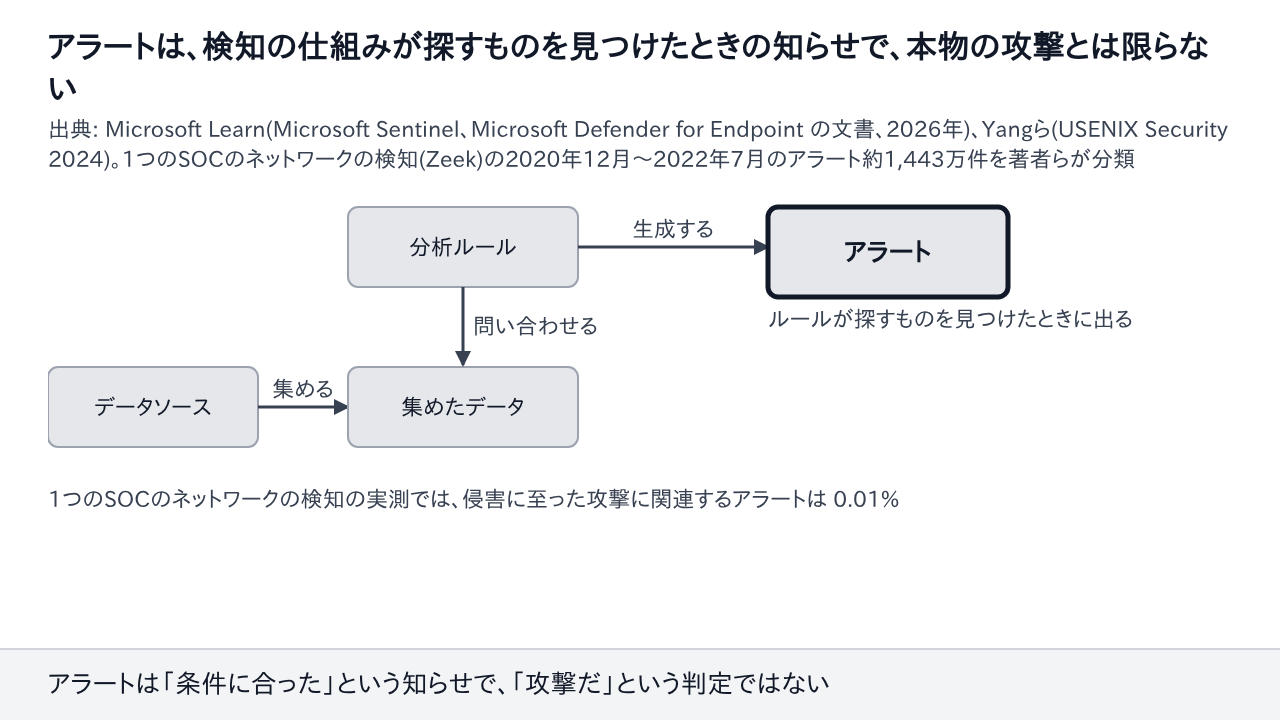
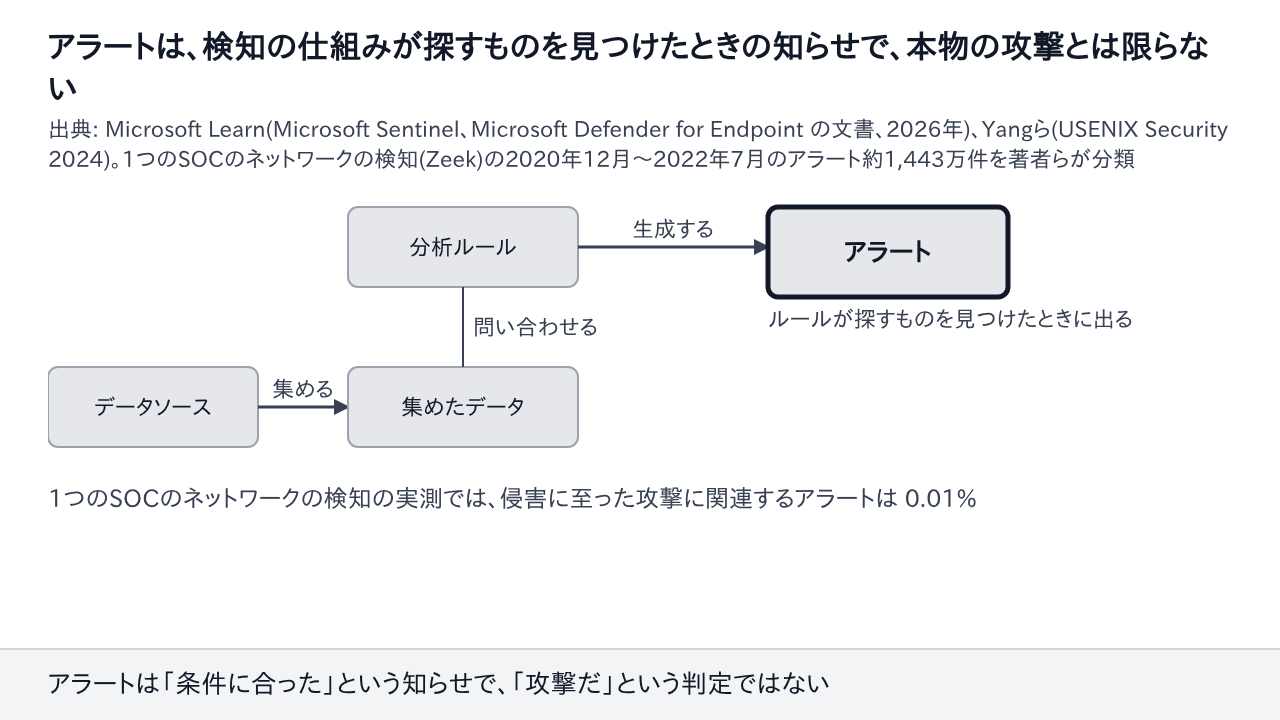
工程6: 見本の再検査の指摘を直す(往復の上限)
Claude-Session: https://claude.ai/code/session_01LpWHd1RPWwvWvFmneHJVAr

Changed region(s): [[0.0312, 0.6722, 0.7812, 0.7028], [0.375, 0.4278, 0.4688, 0.4889], [0.3438, 0.4889, 0.375, 0.5194]]

diff --git a/trial/deck/06-samples/src/architecture-diagram.html b/trial/deck/06-samples/src/architecture-diagram.html
@@ -8,5 +8,5 @@ body{width:1280px;height:720px;background:#fff;font-family:'IPAPGothic','IPAGoth
 .tk{position:absolute;left:0;bottom:0;width:1280px;height:72px;background:#F3F4F6;font-size:26px;padding:20px 48px;border-top:2px solid #D1D5DB}
 .tag{display:inline-block;font-size:19px;padding:2px 10px;border-radius:12px;color:#fff;margin-right:8px;vertical-align:middle}
 </style></head><body>
-<div class="top"><div class="h">EDRは端末の振る舞いの記録を継続して集め、製品の例では脅威を検知するとアラートを作る</div><div class="src">出典: 米国 OMB の覚書 M-22-01(2021年)、サウジアラビア国家サイバーセキュリティ庁(NCA)のEDR標準のひな形、Microsoft Learn(Microsoft Defender for Endpoint の文書、2026年)</div><div class="fig"><svg width="1184" height="400" xmlns="http://www.w3.org/2000/svg"><defs><marker id="a" markerUnits="userSpaceOnUse" markerWidth="16" markerHeight="16" refX="14" refY="8" orient="auto"><path d="M0,0 L16,8 L0,16 z" fill="#374151"/></marker></defs><text x="0" y="26" font-size="24" text-anchor="start" fill="#111827" font-weight="bold">EDRの要件の例(NCA)</text><rect x="14" y="54" width="140" height="68" rx="10" fill="#E5E7EB" stroke="#9CA3AF" stroke-width="2"/><text x="84.0" y="95.7" font-size="22" text-anchor="middle" fill="#111827">端末</text><line x1="154" y1="88" x2="194" y2="88" stroke="#374151" stroke-width="3" marker-end="url(#a)"/><rect x="194" y="54" width="170" height="68" rx="10" fill="#E5E7EB" stroke="#9CA3AF" stroke-width="2"/><text x="279.0" y="95.7" font-size="22" text-anchor="middle" fill="#111827">エージェント</text><line x1="364" y1="88" x2="404" y2="88" stroke="#374151" stroke-width="3" marker-end="url(#a)"/><rect x="404" y="54" width="170" height="68" rx="10" fill="#E5E7EB" stroke="#9CA3AF" stroke-width="2"/><text x="489.0" y="82.06" font-size="22" text-anchor="middle" fill="#111827">中央の</text><text x="489.0" y="109.56" font-size="22" text-anchor="middle" fill="#111827">データベース</text><rect x="0" y="42" width="590" height="92" rx="14" fill="none" stroke="#111827" stroke-width="5"/><text x="0" y="170" font-size="22" text-anchor="start" fill="#374151">プロセス、接続、ファイルなどの端末の記録を集める</text><text x="640" y="26" font-size="24" text-anchor="start" fill="#111827" font-weight="bold">製品の例(Microsoft Defender for Endpoint)</text><rect x="640" y="50" width="300" height="130" rx="10" fill="#E5E7EB" stroke="#9CA3AF" stroke-width="2"/><text x="790.0" y="122.7" font-size="22" text-anchor="middle" fill="#111827"></text><text x="790" y="84" font-size="22" text-anchor="middle" fill="#111827">Defender for Endpoint</text><rect x="700" y="104" width="180" height="56" rx="10" fill="#fff" stroke="#9CA3AF" stroke-width="2"/><text x="790.0" y="139.7" font-size="22" text-anchor="middle" fill="#111827">センサー</text><line x1="790" y1="180" x2="790" y2="240" stroke="#374151" stroke-width="3" marker-end="url(#a)"/><text x="800" y="218.0" font-size="22" text-anchor="start" fill="#374151">作る</text><rect x="700" y="242" width="180" height="56" rx="10" fill="#E5E7EB" stroke="#9CA3AF" stroke-width="2"/><text x="790.0" y="277.7" font-size="22" text-anchor="middle" fill="#111827">アラート</text><rect x="640" y="320" width="540" height="64" rx="8" fill="#F9FAFB" stroke="#9CA3AF" stroke-dasharray="4 4"/><text x="654" y="346" font-size="19" text-anchor="start" fill="#111827">製品が集める記録: プロセス、ネットワーク、ログオン、レジストリ</text><text x="654" y="372" font-size="19" text-anchor="start" fill="#111827">とファイルの変更(製品やアラートとの経路は出典にない)</text></svg></div></div>
+<div class="top"><div class="h">EDRは端末の振る舞いの記録を継続して集め、製品の例では脅威を検知するとアラートを作る</div><div class="src">出典: 米国 OMB の覚書 M-22-01(2021年)、サウジアラビア国家サイバーセキュリティ庁(NCA)のEDR標準のひな形、Microsoft Learn(Microsoft Defender for Endpoint の文書、2026年)</div><div class="fig"><svg width="1184" height="400" xmlns="http://www.w3.org/2000/svg"><defs><marker id="a" markerUnits="userSpaceOnUse" markerWidth="16" markerHeight="16" refX="14" refY="8" orient="auto"><path d="M0,0 L16,8 L0,16 z" fill="#374151"/></marker></defs><text x="0" y="26" font-size="24" text-anchor="start" fill="#111827" font-weight="bold">EDRの要件の例(NCA)</text><rect x="14" y="54" width="140" height="68" rx="10" fill="#E5E7EB" stroke="#9CA3AF" stroke-width="2"/><text x="84.0" y="95.7" font-size="22" text-anchor="middle" fill="#111827">端末</text><line x1="154" y1="88" x2="194" y2="88" stroke="#374151" stroke-width="3" marker-end="url(#a)"/><rect x="194" y="54" width="170" height="68" rx="10" fill="#E5E7EB" stroke="#9CA3AF" stroke-width="2"/><text x="279.0" y="95.7" font-size="22" text-anchor="middle" fill="#111827">エージェント</text><line x1="364" y1="88" x2="404" y2="88" stroke="#374151" stroke-width="3" marker-end="url(#a)"/><rect x="404" y="54" width="170" height="68" rx="10" fill="#E5E7EB" stroke="#9CA3AF" stroke-width="2"/><text x="489.0" y="82.06" font-size="22" text-anchor="middle" fill="#111827">中央の</text><text x="489.0" y="109.56" font-size="22" text-anchor="middle" fill="#111827">データベース</text><rect x="0" y="42" width="590" height="92" rx="14" fill="none" stroke="#111827" stroke-width="5"/><text x="0" y="172" font-size="24" text-anchor="start" fill="#374151">プロセス、接続、ファイルなどの端末の記録を集める</text><text x="640" y="26" font-size="24" text-anchor="start" fill="#111827" font-weight="bold">製品の例(Microsoft Defender for Endpoint)</text><rect x="640" y="50" width="300" height="130" rx="10" fill="#E5E7EB" stroke="#9CA3AF" stroke-width="2"/><text x="790.0" y="122.7" font-size="22" text-anchor="middle" fill="#111827"></text><text x="790" y="84" font-size="22" text-anchor="middle" fill="#111827">Defender for Endpoint</text><rect x="700" y="104" width="180" height="56" rx="10" fill="#fff" stroke="#9CA3AF" stroke-width="2"/><text x="790.0" y="139.7" font-size="22" text-anchor="middle" fill="#111827">センサー</text><line x1="790" y1="180" x2="790" y2="240" stroke="#374151" stroke-width="3" marker-end="url(#a)"/><text x="800" y="218.0" font-size="22" text-anchor="start" fill="#374151">作る</text><rect x="700" y="242" width="180" height="56" rx="10" fill="#E5E7EB" stroke="#9CA3AF" stroke-width="2"/><text x="790.0" y="277.7" font-size="22" text-anchor="middle" fill="#111827">アラート</text><rect x="980" y="50" width="204" height="250" rx="8" fill="#F9FAFB" stroke="#9CA3AF" stroke-dasharray="4 4"/><text x="992" y="78" font-size="19" text-anchor="start" fill="#111827" font-weight="bold">製品が集める記録</text><text x="1000" y="110" font-size="19" text-anchor="start" fill="#111827">プロセス</text><text x="1000" y="138" font-size="19" text-anchor="start" fill="#111827">ネットワーク</text><text x="1000" y="166" font-size="19" text-anchor="start" fill="#111827">ログオン</text><text x="1000" y="194" font-size="19" text-anchor="start" fill="#111827">レジストリと</text><text x="1000" y="222" font-size="19" text-anchor="start" fill="#111827">ファイルの変更</text><text x="992" y="262" font-size="19" text-anchor="start" fill="#4B5563">製品やアラートとの</text><text x="992" y="286" font-size="19" text-anchor="start" fill="#4B5563">経路は出典にない</text></svg></div></div>
 <div class="tk">EDRの材料は、端末の振る舞いを集め続けた記録である</div></body></html>

diff --git a/trial/deck/06-samples/src/er-diagram.html b/trial/deck/06-samples/src/er-diagram.html
@@ -8,5 +8,5 @@ body{width:1280px;height:720px;background:#fff;font-family:'IPAPGothic','IPAGoth
 .tk{position:absolute;left:0;bottom:0;width:1280px;height:72px;background:#F3F4F6;font-size:26px;padding:20px 48px;border-top:2px solid #D1D5DB}
 .tag{display:inline-block;font-size:19px;padding:2px 10px;border-radius:12px;color:#fff;margin-right:8px;vertical-align:middle}
 </style></head><body>
-<div class="top"><div class="h">アラートは、検知の仕組みが探すものを見つけたときの知らせで、本物の攻撃とは限らない</div><div class="src">出典: Microsoft Learn(Microsoft Sentinel、Microsoft Defender for Endpoint の文書、2026年)、Yangら(USENIX Security 2024)。1つのSOCのネットワークの検知(Zeek)の2020年12月〜2022年7月のアラート約1,443万件を著者らが分類</div><div class="fig"><svg width="1184" height="330" xmlns="http://www.w3.org/2000/svg"><defs><marker id="a" markerUnits="userSpaceOnUse" markerWidth="16" markerHeight="16" refX="14" refY="8" orient="auto"><path d="M0,0 L16,8 L0,16 z" fill="#374151"/></marker></defs><rect x="0" y="170" width="210" height="80" rx="10" fill="#E5E7EB" stroke="#9CA3AF" stroke-width="2"/><text x="105.0" y="217.7" font-size="22" text-anchor="middle" fill="#111827">データソース</text><line x1="210" y1="210" x2="300" y2="210" stroke="#374151" stroke-width="3" marker-end="url(#a)"/><text x="255.0" y="200" font-size="22" text-anchor="middle" fill="#374151">集める</text><rect x="300" y="170" width="230" height="80" rx="10" fill="#E5E7EB" stroke="#9CA3AF" stroke-width="2"/><text x="415.0" y="217.7" font-size="22" text-anchor="middle" fill="#111827">集めたデータ</text><rect x="300" y="10" width="230" height="80" rx="10" fill="#E5E7EB" stroke="#9CA3AF" stroke-width="2"/><text x="415.0" y="57.7" font-size="22" text-anchor="middle" fill="#111827">分析ルール</text><line x1="415" y1="90" x2="415" y2="168" stroke="#374151" stroke-width="3" marker-end="url(#a)"/><text x="425" y="137.0" font-size="22" text-anchor="start" fill="#374151">問い合わせる</text><line x1="530" y1="50" x2="720" y2="50" stroke="#374151" stroke-width="3" marker-end="url(#a)"/><text x="625.0" y="40" font-size="22" text-anchor="middle" fill="#374151">生成する</text><rect x="720" y="10" width="240" height="90" rx="10" fill="#E5E7EB" stroke="#111827" stroke-width="5"/><text x="840.0" y="64.1" font-size="26" text-anchor="middle" fill="#111827" font-weight="bold">アラート</text><text x="720" y="130" font-size="22" text-anchor="start" fill="#374151">ルールが探すものを見つけたときに出る</text><text x="0" y="310" font-size="22" text-anchor="start" fill="#374151">1つのSOCのネットワークの検知の実測では、侵害に至った攻撃に関連するアラートは 0.01%</text></svg></div></div>
+<div class="top"><div class="h">アラートは、検知の仕組みが探すものを見つけたときの知らせで、本物の攻撃とは限らない</div><div class="src">出典: Microsoft Learn(Microsoft Sentinel、Microsoft Defender for Endpoint の文書、2026年)、Yangら(USENIX Security 2024)。1つのSOCのネットワークの検知(Zeek)の2020年12月〜2022年7月のアラート約1,443万件を著者らが分類</div><div class="fig"><svg width="1184" height="330" xmlns="http://www.w3.org/2000/svg"><defs><marker id="a" markerUnits="userSpaceOnUse" markerWidth="16" markerHeight="16" refX="14" refY="8" orient="auto"><path d="M0,0 L16,8 L0,16 z" fill="#374151"/></marker></defs><rect x="0" y="170" width="210" height="80" rx="10" fill="#E5E7EB" stroke="#9CA3AF" stroke-width="2"/><text x="105.0" y="217.7" font-size="22" text-anchor="middle" fill="#111827">データソース</text><line x1="210" y1="210" x2="300" y2="210" stroke="#374151" stroke-width="3" marker-end="url(#a)"/><text x="255.0" y="200" font-size="22" text-anchor="middle" fill="#374151">集める</text><rect x="300" y="170" width="230" height="80" rx="10" fill="#E5E7EB" stroke="#9CA3AF" stroke-width="2"/><text x="415.0" y="217.7" font-size="22" text-anchor="middle" fill="#111827">集めたデータ</text><rect x="300" y="10" width="230" height="80" rx="10" fill="#E5E7EB" stroke="#9CA3AF" stroke-width="2"/><text x="415.0" y="57.7" font-size="22" text-anchor="middle" fill="#111827">分析ルール</text><line x1="415" y1="90" x2="415" y2="170" stroke="#374151" stroke-width="2"/><text x="425" y="138" font-size="22" text-anchor="start" fill="#374151">問い合わせる</text><line x1="530" y1="50" x2="720" y2="50" stroke="#374151" stroke-width="3" marker-end="url(#a)"/><text x="625.0" y="40" font-size="22" text-anchor="middle" fill="#374151">生成する</text><rect x="720" y="10" width="240" height="90" rx="10" fill="#E5E7EB" stroke="#111827" stroke-width="5"/><text x="840.0" y="64.1" font-size="26" text-anchor="middle" fill="#111827" font-weight="bold">アラート</text><text x="720" y="130" font-size="22" text-anchor="start" fill="#374151">ルールが探すものを見つけたときに出る</text><text x="0" y="310" font-size="24" text-anchor="start" fill="#374151">1つのSOCのネットワークの検知の実測では、侵害に至った攻撃に関連するアラートは 0.01%</text></svg></div></div>
 <div class="tk">アラートは「条件に合った」という知らせで、「攻撃だ」という判定ではない</div></body></html>

diff --git a/trial/deck/06-samples/src/cause-chain.html b/trial/deck/06-samples/src/cause-chain.html
@@ -8,5 +8,5 @@ body{width:1280px;height:720px;background:#fff;font-family:'IPAPGothic','IPAGoth
 .tk{position:absolute;left:0;bottom:0;width:1280px;height:72px;background:#F3F4F6;font-size:26px;padding:20px 48px;border-top:2px solid #D1D5DB}
 .tag{display:inline-block;font-size:19px;padding:2px 10px;border-radius:12px;color:#fff;margin-right:8px;vertical-align:middle}
 </style></head><body>
-<div class="top"><div class="h">誤検知の原因には、弱いルールや緩く書かれたルールなど、検知の条件の誤りがある</div><div class="src">出典: NIST の文書(2003年、ネットワーク型の検知)、Alahmadiら(USENIX Security 2022、一部の解析者の認識)。原文の語は signature</div><div class="fig"><svg width="1184" height="250" xmlns="http://www.w3.org/2000/svg"><defs><marker id="a" markerUnits="userSpaceOnUse" markerWidth="16" markerHeight="16" refX="14" refY="8" orient="auto"><path d="M0,0 L16,8 L0,16 z" fill="#374151"/></marker></defs><rect x="0" y="40" width="330" height="120" rx="10" fill="#fff" stroke="#111827" stroke-width="5"/><text x="165.0" y="93.52000000000001" font-size="24" text-anchor="middle" fill="#111827" font-weight="bold">検知のルールが</text><text x="165.0" y="123.52000000000001" font-size="24" text-anchor="middle" fill="#111827" font-weight="bold">緩く書かれている</text><line x1="330" y1="100" x2="430" y2="100" stroke="#374151" stroke-width="6" marker-end="url(#a)"/><text x="380" y="84" font-size="22" text-anchor="middle" fill="#111827">ので</text><rect x="440" y="40" width="330" height="120" rx="10" fill="#E5E7EB" stroke="#9CA3AF" stroke-width="2"/><text x="605.0" y="93.52000000000001" font-size="24" text-anchor="middle" fill="#111827">無害な通信にも</text><text x="605.0" y="123.52000000000001" font-size="24" text-anchor="middle" fill="#111827">条件が合ってしまう</text><line x1="770" y1="100" x2="870" y2="100" stroke="#374151" stroke-width="6" marker-end="url(#a)"/><text x="820" y="84" font-size="22" text-anchor="middle" fill="#111827">ので</text><rect x="880" y="40" width="280" height="120" rx="10" fill="#fff" stroke="#6B7280" stroke-width="3"/><text x="1020.0" y="109.8" font-size="28" text-anchor="middle" fill="#6B7280">誤検知</text><text x="0" y="220" font-size="22" text-anchor="start" fill="#374151">架空の例: 「宛先のポートが443」だけを条件にしたルールは、ふつうのWebの閲覧にも合う</text></svg></div></div>
+<div class="top"><div class="h">誤検知の原因には、弱いルールや緩く書かれたルールなど、検知の条件の誤りがある</div><div class="src">出典: NIST の文書(2003年、ネットワーク型の検知)、Alahmadiら(USENIX Security 2022、一部の解析者の認識)。原文の語は signature</div><div class="fig"><svg width="1184" height="250" xmlns="http://www.w3.org/2000/svg"><defs><marker id="a" markerUnits="userSpaceOnUse" markerWidth="16" markerHeight="16" refX="14" refY="8" orient="auto"><path d="M0,0 L16,8 L0,16 z" fill="#374151"/></marker></defs><rect x="0" y="40" width="330" height="120" rx="10" fill="#fff" stroke="#111827" stroke-width="5"/><text x="165.0" y="93.52000000000001" font-size="24" text-anchor="middle" fill="#111827" font-weight="bold">検知のルールが</text><text x="165.0" y="123.52000000000001" font-size="24" text-anchor="middle" fill="#111827" font-weight="bold">緩く書かれている</text><line x1="330" y1="100" x2="430" y2="100" stroke="#374151" stroke-width="6" marker-end="url(#a)"/><text x="380" y="84" font-size="22" text-anchor="middle" fill="#111827">ので</text><rect x="440" y="40" width="330" height="120" rx="10" fill="#E5E7EB" stroke="#9CA3AF" stroke-width="2"/><text x="605.0" y="93.52000000000001" font-size="24" text-anchor="middle" fill="#111827">無害な通信にも</text><text x="605.0" y="123.52000000000001" font-size="24" text-anchor="middle" fill="#111827">条件が合ってしまう</text><line x1="770" y1="100" x2="870" y2="100" stroke="#374151" stroke-width="6" marker-end="url(#a)"/><text x="820" y="84" font-size="22" text-anchor="middle" fill="#111827">ので</text><rect x="880" y="40" width="280" height="120" rx="10" fill="#fff" stroke="#6B7280" stroke-width="3"/><text x="1020.0" y="109.8" font-size="28" text-anchor="middle" fill="#6B7280">誤検知</text><text x="0" y="220" font-size="24" text-anchor="start" fill="#374151">架空の例: 「宛先のポートが443」だけを条件にしたルールは、ふつうのWebの閲覧にも合う</text></svg></div></div>
 <div class="tk">誤検知の原因は、活動の側ではなく検知の条件の側にある</div></body></html>

diff --git a/trial/deck/06-samples/src/pie-chart.html b/trial/deck/06-samples/src/pie-chart.html
@@ -8,5 +8,5 @@ body{width:1280px;height:720px;background:#fff;font-family:'IPAPGothic','IPAGoth
 .tk{position:absolute;left:0;bottom:0;width:1280px;height:72px;background:#F3F4F6;font-size:26px;padding:20px 48px;border-top:2px solid #D1D5DB}
 .tag{display:inline-block;font-size:19px;padding:2px 10px;border-radius:12px;color:#fff;margin-right:8px;vertical-align:middle}
 </style></head><body>
-<div class="top"><div class="h">1つのSOCの実測では、侵害に至った攻撃は0.01%、攻撃の試みは27%以上、想定内は49%以上</div><div class="src">出典: Yangら(USENIX Security 2024)。1つのSOCのネットワークの検知(Zeek)の2020年12月〜2022年7月のアラート約1,443万件を著者らが分類。27%と49%は下限。分類できないものが約24%残る</div><div class="fig"><svg width="1184" height="380" xmlns="http://www.w3.org/2000/svg"><defs><marker id="a" markerUnits="userSpaceOnUse" markerWidth="16" markerHeight="16" refX="14" refY="8" orient="auto"><path d="M0,0 L16,8 L0,16 z" fill="#374151"/></marker></defs><path d="M190,190 L190.0,25.0 A165,165 0 0 1 353.7,210.7 z" fill="#EA580C" stroke="#111827" stroke-width="6"/><path d="M190,190 L353.7,210.7 A165,165 0 0 1 25.3,179.6 z" fill="#0E7490" stroke="#fff" stroke-width="2"/><path d="M190,190 L25.3,179.6 A165,165 0 0 1 190.0,25.0 z" fill="#D1D5DB" stroke="#fff" stroke-width="2"/><rect x="420" y="50" width="34" height="34" fill="#7F1D1D"/><text x="468" y="77" font-size="26" text-anchor="start" fill="#111827">侵害に至った攻撃 0.01%(細すぎて円に出ない)</text><rect x="420" y="116" width="34" height="34" fill="#EA580C"/><text x="468" y="143" font-size="26" text-anchor="start" fill="#111827" font-weight="bold">攻撃の試み 27%以上</text><rect x="420" y="182" width="34" height="34" fill="#0E7490"/><text x="468" y="209" font-size="26" text-anchor="start" fill="#111827">想定内の検知 49%以上</text><rect x="420" y="248" width="34" height="34" fill="#D1D5DB"/><text x="468" y="275" font-size="26" text-anchor="start" fill="#111827">分類できないもの 約24%</text></svg></div></div>
+<div class="top"><div class="h">1つのSOCの実測では、侵害に至った攻撃は0.01%、攻撃の試みは27%以上、想定内は49%以上</div><div class="src">出典: Yangら(USENIX Security 2024)。1つのSOCのネットワークの検知(Zeek)の2020年12月〜2022年7月のアラート約1,443万件を著者らが分類</div><div class="fig"><svg width="1184" height="380" xmlns="http://www.w3.org/2000/svg"><defs><marker id="a" markerUnits="userSpaceOnUse" markerWidth="16" markerHeight="16" refX="14" refY="8" orient="auto"><path d="M0,0 L16,8 L0,16 z" fill="#374151"/></marker></defs><path d="M190,190 L190.0,25.0 A165,165 0 0 1 353.7,210.7 z" fill="#EA580C" stroke="#111827" stroke-width="6"/><path d="M190,190 L353.7,210.7 A165,165 0 0 1 25.3,179.6 z" fill="#0E7490" stroke="#fff" stroke-width="2"/><path d="M190,190 L25.3,179.6 A165,165 0 0 1 190.0,25.0 z" fill="#D1D5DB" stroke="#fff" stroke-width="2"/><rect x="420" y="50" width="34" height="34" fill="#7F1D1D"/><text x="468" y="77" font-size="26" text-anchor="start" fill="#111827">侵害に至った攻撃 0.01%(細すぎて円に出ない)</text><rect x="420" y="116" width="34" height="34" fill="#EA580C"/><text x="468" y="143" font-size="26" text-anchor="start" fill="#111827" font-weight="bold">攻撃の試み 27%以上</text><rect x="420" y="182" width="34" height="34" fill="#0E7490"/><text x="468" y="209" font-size="26" text-anchor="start" fill="#111827">想定内の検知 49%以上</text><rect x="420" y="248" width="34" height="34" fill="#D1D5DB"/><text x="468" y="275" font-size="26" text-anchor="start" fill="#111827">分類できないもの 約24%</text></svg></div></div>
 <div class="tk">誤検知でも想定内でもない攻撃の試みが、少なくとも4分の1ある</div></body></html>

diff --git a/trial/deck/preview/samples.html b/trial/deck/preview/samples.html
@@ -1,0 +1,11 @@
+<!doctype html><meta charset="utf-8"><title>型の見本</title><style>body{font-family:sans-serif;margin:24px}img{width:960px;border:1px solid #ccc}h2{margin-top:32px}</style><h1>型の見本(10枚)</h1>
+<h2>step-flow(スライド ch1-s1)</h2><p>注目させる点: 分けてから決める、という2段の順</p><img src="../06-samples/step-flow.png">
+<h2>er-diagram(スライド ch2-s1)</h2><p>注目させる点: アラートは、ルールが探すものを見つけたときに出す知らせであること</p><img src="../06-samples/er-diagram.png">
+<h2>architecture-diagram(スライド ch2-s3)</h2><p>注目させる点: EDRは端末の振る舞いを継続して集め、製品は脅威を検知するとアラートを作ること(2つをつなぐ経路は示さない)</p><img src="../06-samples/architecture-diagram.png">
+<h2>tree(スライド ch2-s5)</h2><p>注目させる点: アラートの活動を戦術に当てはめると、攻撃のどの段階かを言えること</p><img src="../06-samples/tree.png">
+<h2>pie-chart(スライド ch2-s6)</h2><p>注目させる点: 誤検知でも想定内でもない攻撃の試みの帯(27%以上)</p><img src="../06-samples/pie-chart.png">
+<h2>cause-chain(スライド ch2-s8)</h2><p>注目させる点: 原因が検知の条件の側にあること</p><img src="../06-samples/cause-chain.png">
+<h2>table(スライド ap-s1)</h2><p>注目させる点: 調べ方と値が出典ごとに違うこと</p><img src="../06-samples/table.png">
+<h2>plain-list(スライド ch3-s15)</h2><p>注目させる点: 5項目そろえて渡すこと</p><img src="../06-samples/plain-list.png">
+<h2>statement(スライド ch4-s2)</h2><p>注目させる点: これが推定であること</p><img src="../06-samples/statement.png">
+<h2>flowchart(スライド ch3-s17)</h2><p>注目させる点: 上げる条件を先に確かめ、閉じるのは一覧にあるか、調べて誤検知と言えたときだけであること</p><img src="../06-samples/flowchart.png">

diff --git a/trial/deck/preview/placeholder.html b/trial/deck/preview/placeholder.html
@@ -77,7 +77,7 @@ ul { font-size: 20px; margin: 0 0 12px; padding-left: 1.2em; }
 <section id="ch2-s6">
 <p class="meta">10 / 46 ・ ch2-s6 ・ 本編</p>
 <h2>1つのSOCの実測では、侵害に至った攻撃は0.01%、攻撃の試みは27%以上、想定内は49%以上</h2>
-<p class="source" style="font-size:1.1em;margin:.2em 0 .8em;color:#333">出典: Yangら(USENIX Security 2024)。1つのSOCのネットワークの検知(Zeek)の2020年12月〜2022年7月のアラート約1,443万件を著者らが分類。27%と49%は下限。分類できないものが約24%残る</p>
+<p class="source" style="font-size:1.1em;margin:.2em 0 .8em;color:#333">出典: Yangら(USENIX Security 2024)。1つのSOCのネットワークの検知(Zeek)の2020年12月〜2022年7月のアラート約1,443万件を著者らが分類</p>
 <ul><li>F207: 実SOCの実測では、アラートのうち真の攻撃に関連するのは0.01%。攻撃の試み(侵害に至らなかった攻撃)が27%、正当な業務上の理由がある「良性のトリガー」が49%を占めた</li></ul>
 <div class="placeholder"><p>仮置き</p><ul><li>主張の種類: composition(構成比)</li><li>見せるもの: 1つのSOCのアラートの内訳を1本の帯で示す。侵害に至った攻撃0.01%、攻撃の試み27%以上、想定内の検知49%以上、分類できないもの約24%。27%と49%が下限であることを帯に書く</li><li>注目させる点: 誤検知でも想定内でもない攻撃の試みの帯(27%以上)</li></ul></div>
 </section>

diff --git a/trial/deck/06-samples/src/samples.py b/trial/deck/06-samples/src/samples.py
@@ -140,14 +140,17 @@ samples['flowchart'] = dict(spec=dict(id='ch3-s17', status='done', headline=S['c
 a = text(0, 26, 'EDRの要件の例(NCA)', 24, bold=True)
 a += box(14, 54, 140, 68, '端末') + arrow(154, 88, 194, 88) + box(194, 54, 170, 68, 'エージェント') + arrow(364, 88, 404, 88) + box(404, 54, 170, 68, '中央の\nデータベース')
 a += emph_rect(0, 42, 590, 92)
-a += text(0, 170, 'プロセス、接続、ファイルなどの端末の記録を集める', FIG, color='#374151')
+a += text(0, 172, 'プロセス、接続、ファイルなどの端末の記録を集める', 24, color='#374151')
 a += text(640, 26, '製品の例(Microsoft Defender for Endpoint)', 24, bold=True)
 a += box(640, 50, 300, 130, '', fill='#E5E7EB')
 a += text(790, 84, 'Defender for Endpoint', FIG, 'middle')
 a += box(700, 104, 180, 56, 'センサー', fill='#fff')
 a += arrow(790, 180, 790, 240, '作る') + box(700, 242, 180, 56, 'アラート')
-a += f'<rect x="640" y="320" width="540" height="64" rx="8" fill="#F9FAFB" stroke="#9CA3AF" stroke-dasharray="4 4"/>'
-a += text(654, 346, '製品が集める記録: プロセス、ネットワーク、ログオン、レジストリ', NOTE) + text(654, 372, 'とファイルの変更(製品やアラートとの経路は出典にない)', NOTE)
+a += f'<rect x="980" y="50" width="204" height="250" rx="8" fill="#F9FAFB" stroke="#9CA3AF" stroke-dasharray="4 4"/>'
+a += text(992, 78, '製品が集める記録', NOTE, bold=True)
+for i, l in enumerate(['プロセス', 'ネットワーク', 'ログオン', 'レジストリと', 'ファイルの変更']):
+    a += text(1000, 110 + i*28, l, NOTE)
+a += text(992, 262, '製品やアラートとの', NOTE, color='#4B5563') + text(992, 286, '経路は出典にない', NOTE, color='#4B5563')
 tk = 'EDRの材料は、端末の振る舞いを集め続けた記録である'
 samples['architecture-diagram'] = dict(spec=dict(id='ch2-s3', status='done', headline=S['ch2-s3']['headline'], takeaway=tk,
     body=dict(type='architecture-diagram', elements=['E-endpoint', 'E-edr-agent', 'E-edr-central-db', 'E-mde', 'E-mde-sensor', 'D-mde-telemetry', 'D-mde-alert'],
@@ -192,10 +195,10 @@ samples['table'] = dict(spec=dict(id='ap-s1', status='done', headline=S['ap-s1']
 
 # 8. er-diagram: ch2-s1(問い合わせはルールの上から下へ。流れは左から右)
 e = box(0, 170, 210, 80, 'データソース') + arrow(210, 210, 300, 210, '集める') + box(300, 170, 230, 80, '集めたデータ')
-e += box(300, 10, 230, 80, '分析ルール') + arrow(415, 90, 415, 168, '問い合わせる')
+e += box(300, 10, 230, 80, '分析ルール') + '<line x1="415" y1="90" x2="415" y2="170" stroke="#374151" stroke-width="2"/>' + text(425, 138, '問い合わせる', FIG, color='#374151')
 e += arrow(530, 50, 720, 50, '生成する') + box(720, 10, 240, 90, 'アラート', fs=26, bold=True, sw=5, stroke=INK)
 e += text(720, 130, 'ルールが探すものを見つけたときに出る', FIG, color='#374151')
-e += text(0, 310, '1つのSOCのネットワークの検知の実測では、侵害に至った攻撃に関連するアラートは 0.01%', FIG, color='#374151')
+e += text(0, 310, '1つのSOCのネットワークの検知の実測では、侵害に至った攻撃に関連するアラートは 0.01%', 24, color='#374151')
 tk = 'アラートは「条件に合った」という知らせで、「攻撃だ」という判定ではない'
 samples['er-diagram'] = dict(spec=dict(id='ch2-s1', status='done', headline=S['ch2-s1']['headline'], takeaway=tk,
     body=dict(type='er-diagram', elements=['E-sentinel-source', 'D-sentinel-data', 'E-sentinel-rule', 'D-sentinel-alert'], relations=['R-sentinel-source-data', 'R-sentinel-rule-data', 'R-sentinel-rule-alert'], highlight='D-sentinel-alert'),
@@ -229,7 +232,7 @@ cc += '<line x1="330" y1="100" x2="430" y2="100" stroke="#374151" stroke-width="
 cc += box(440, 40, 330, 120, '無害な通信にも\n条件が合ってしまう', fs=24)
 cc += '<line x1="770" y1="100" x2="870" y2="100" stroke="#374151" stroke-width="6" marker-end="url(#a)"/>' + text(820, 84, 'ので', FIG, 'middle')
 cc += box(880, 40, 280, 120, '誤検知', fs=28, fill='#fff', stroke=C['誤検知'], sw=3, color=C['誤検知'])
-cc += text(0, 220, '架空の例: 「宛先のポートが443」だけを条件にしたルールは、ふつうのWebの閲覧にも合う', FIG, color='#374151')
+cc += text(0, 220, '架空の例: 「宛先のポートが443」だけを条件にしたルールは、ふつうのWebの閲覧にも合う', 24, color='#374151')
 tk = '誤検知の原因は、活動の側ではなく検知の条件の側にある'
 samples['cause-chain'] = dict(spec=dict(id='ch2-s8', status='done', headline=S['ch2-s8']['headline'], takeaway=tk,
     body=dict(type='cause-chain', chain=['検知のルールが緩く書かれている', '無害な通信にも条件が合ってしまう', '誤検知'], example='架空の例', highlight='chain[0]'),

diff --git a/trial/deck/journal.md b/trial/deck/journal.md
@@ -482,3 +482,5 @@
 - 見本の検査(`checks/6-samples-1.yaml`、Opus): 不合格16、判定できない1。step-flow が区分と行き先の1対1の対応に読める(偽の含意)、er-diagram の問い合わせの矢印が右から左、architecture-diagram の「持つ」を流れの矢印で描き、記録の一覧の近さが出典にない経路に読める、最初に目が行く場所が focus と違う(cause-chain、flowchart、step-flow)、消せる要素(出典の行との重複、見出しとの重複、意味のない囲み)、図の中の文字が下限(16pt=21.3px)未満、強調が複数、出典の行の位置、色相の数え方が未定。
 - 直した(往復の1回目): 描画の元を書き直した。図の中の文字を22px以上、注記を19px以上にした。行き先の札を塗らない枠にして強調(黒の太枠)より目立たないようにし、強調を1枚1か所にした。step-flow は区分と行き先を同じ高さに並べず色も塗らない、er-diagram はルールを上に置いて問い合わせを上から下に、architecture-diagram はセンサーを製品の内側に置き、記録の一覧を離した。出典の行を見出しのすぐ下に置く組み方にした。ch4-s2 と ap-s1 の出典の行から、図と重なる文言を外した(ストーリーラインの source の変更)。色相は割り当てた色を1つずつ数えると決めた。
 - 見本の再検査を起こした(表の66。対象 356acc2。往復の2回目で最後)。待ち始め: 01:38 UTC。
+- 見本の再検査(`checks/6-samples-2.yaml`、Sonnet): 前回の17項目のうち12が解消。残り5: architecture-diagram で記録の一覧がアラートの真下にあり近さでつながって読める、er-diagram の問い合わせの矢印がデータが渡るように読める、pie-chart の出典の行(ストーリーラインの source)が凡例と重なる、er-diagram の図の下の説明の文が本文の下限(24px)未満、定位置(er-diagram の矢印)。
+- 往復の上限のため再検査せずに直した: 記録の一覧を製品の枠の右に離した、問い合わせを矢印でなくラベル付きの線にし、共通の規則の矢印と線の意味に「ラベル付きの細い線(矢印なし)= 流れでない関係」を足した、ch2-s6 の出典の行から凡例と重なる文を外した、図の外の説明の文を本文の大きさ(24px)にし、共通の規則に書いた。確認用に `preview/samples.html` を作った。
